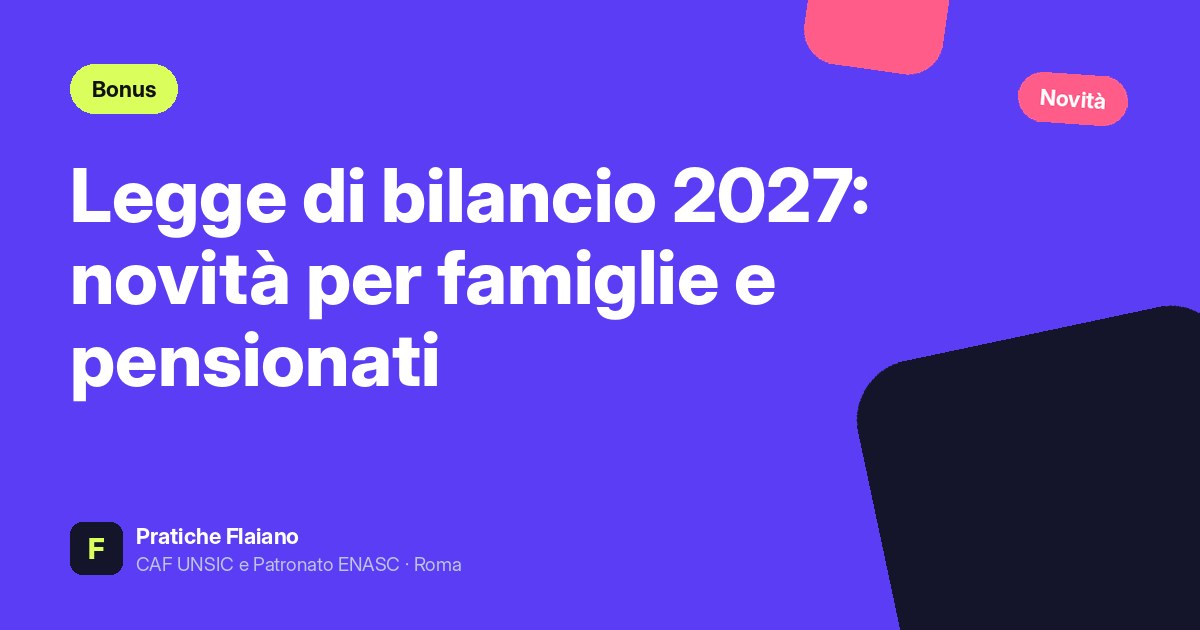
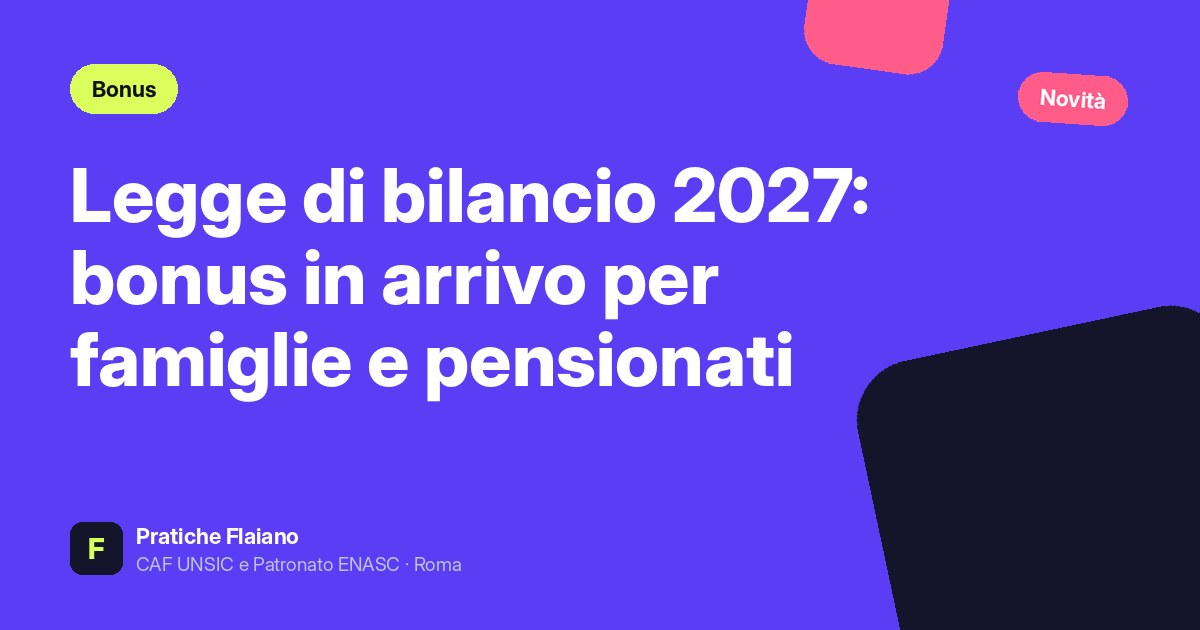
Legge di bilancio 2027: sezione bonus in arrivo (domanda sì/no e da quando)
Claude-Session: https://claude.ai/code/session_0196GTvN5mPCjeJurPh7tVQp

Changed region(s): [[0.0617, 0.3921, 0.6783, 0.6635]]

diff --git a/content/bonus-fiscali/2026-11-12-legge-di-bilancio-2027-novita-famiglie-pensionati.md b/content/bonus-fiscali/2026-11-12-legge-di-bilancio-2027-novita-famiglie-pensionati.md
@@ -1,12 +1,12 @@
 ---
-title: "Legge di bilancio 2027: le novità per famiglie, lavoratori e pensionati"
-seo_title: "Legge di bilancio 2027: novità per famiglie e pensionati"
+title: "Legge di bilancio 2027: bonus in arrivo e novità per famiglie, lavoratori e pensionati"
+seo_title: "Legge di bilancio 2027: bonus in arrivo per famiglie e pensionati"
 slug: "legge-di-bilancio-2027-novita-famiglie-pensionati"
 date: 2026-11-12
-last_updated: 2026-11-12
+last_updated: 2026-11-26
 category: "bonus-fiscali"
-tags: ["legge-di-bilancio-2027", "irpef", "bonus-mamme", "pensione", "congedo-parentale", "cedolare-secca"]
-meta_description: "Legge di bilancio 2027: IRPEF, bonus mamme 100 euro, congedo, Carta 300 euro over 75, pensioni e affitti. Le proposte spiegate dal CAF a Vigne Nuove, Roma."
+tags: ["legge-di-bilancio-2027", "bonus-2027", "irpef", "bonus-mamme", "pensione", "congedo-parentale", "cedolare-secca"]
+meta_description: "Bonus 2027 in arrivo: carta 300 euro over 75, bonus mamme 100 euro, nuovi nati, congedo. Serve la domanda? Da quando? Il CAF di Vigne Nuove, Roma."
 author: "Redazione Centro Pratiche Flaiano"
 sources:
   - "Disegno di legge di bilancio 2027, A.C. 3174, presentato alla Camera il 30 ottobre 2026 (ora A.C. 3174-bis dopo lo stralcio): artt. 5, 9, 51, 53, 54, 55, 57, 58, 59, 60 - https://www.camera.it/leg19/126?idDocumento=3174"
@@ -14,19 +14,22 @@ sources:
   - "D.Lgs. 26 marzo 2001, n. 151, art. 34, comma 1 (testo vigente) e Circolare INPS n. 95 del 26 maggio 2025 (tre mesi di congedo parentale all'80%)"
   - "D.Lgs. 15 marzo 2024, n. 29, artt. 34-36 e scheda INPS Prestazione universale - https://www.inps.it/it/it/dettaglio-scheda.it.schede-servizio-strumento.schede-servizi.decreto-anziani-prestazione-universale.html"
   - "Legge 30 dicembre 2025, n. 199, art. 1, comma 3 (aliquote IRPEF 2026)"
+  - "FiscoeTasse, Legge di bilancio 2027: le novità fiscali del DDL articolo per articolo (artt. 3, 4, 57-60) - https://www.fiscoetasse.com/normativa-prassi/13619-legge-di-bilancio-2027-le-novita-fiscali-del-ddl-articolo-per-articolo.html"
+  - "FiscoeTasse, Bonus 300 euro over 75: chi ha diritto e cosa si può pagare (art. 53, decreto entro 30 giorni) - https://www.fiscoetasse.com/domande-e-risposte/12895-bonus-300-euro-over-75-chi-ha-diritto-cosa-si-puo-pagare.html"
+  - "Informazione Fiscale, Manovra 2027: termine emendamenti 17 novembre 2026 - https://www.informazionefiscale.it/manovra-2027-novita-emendamenti-ultime-notizie"
 status: published
 type: novita
 image: "/og/legge-di-bilancio-2027-novita-famiglie-pensionati.jpg"
 image_alt: "Legge di bilancio 2027: novità per famiglie, lavoratori e pensionati"
 ---
 
-# Legge di bilancio 2027: le novità per famiglie, lavoratori e pensionati
+# Legge di bilancio 2027: bonus in arrivo e novità per famiglie, lavoratori e pensionati
 
-**Ultimo aggiornamento: 12 novembre 2026**
+**Ultimo aggiornamento: 26 novembre 2026**
 
-Il disegno di **legge di bilancio 2027** (A.C. 3174) è stato presentato alla Camera il **30 ottobre 2026** e ora è all'esame del Parlamento. Dal 4 novembre l'esame prosegue sul testo A.C. 3174-bis, nato dallo stralcio di alcune norme. Gli articoli citati qui sotto sono quelli del testo presentato. Deve essere approvato entro fine anno per entrare in vigore il **1° gennaio 2027**.
+Il disegno di **legge di bilancio 2027** (A.C. 3174) è stato presentato alla Camera il **30 ottobre 2026** e ora è all'esame del Parlamento. Dal 4 novembre l'esame prosegue sul testo A.C. 3174-bis, nato dallo stralcio di alcune norme. Gli articoli citati qui sotto sono quelli del testo presentato. Il termine per presentare gli emendamenti era il **17 novembre 2026**: ora il Parlamento li esamina. Deve essere approvato entro fine anno per entrare in vigore il **1° gennaio 2027**.
 
-In questa pagina raccogliamo le misure che interessano di più le famiglie, i lavoratori e i pensionati. **Sono tutte proposte**: il testo può cambiare. Aggiorneremo l'articolo dopo l'approvazione.
+In questa pagina raccogliamo i **bonus in arrivo** e le misure che interessano di più le famiglie, i lavoratori e i pensionati. **Sono tutte proposte**: il testo può cambiare. Per ognuna ti diciamo se servirà una domanda e da quando. Aggiorneremo l'articolo dopo l'approvazione.
 
 ## In breve
 
@@ -39,6 +42,25 @@ In questa pagina raccogliamo le misure che interessano di più le famiglie, i la
 | **Rivalutazione pensioni** | nuove fasce sull'intero importo | pensioni oltre 2.447,40 € lordi |
 | **APE sociale** | prorogata a tutto il 2027, a 63 anni e 6 mesi | disoccupati, caregiver, invalidi, gravosi |
 | **Cedolare secca** | 5% (1% under 36) sui nuovi contratti concordati 2027 | proprietari che affittano |
+
+## Bonus 2027 in arrivo: serve la domanda? Da quando?
+
+**Oggi nessuno di questi bonus si può chiedere**: prima la legge va approvata, poi servono i decreti o le istruzioni dell'INPS. Ecco cosa dice il testo per ognuno.
+
+| Bonus in arrivo | Quanto | Serve la domanda? | Da quando |
+|---|---|---|---|
+| **Carta sanitaria over 75** (art. 53) | 300 € una volta, nel 2027 | il testo non lo dice: lo deciderà un **decreto** del Ministero del Lavoro, da fare entro 30 giorni dall'entrata in vigore della legge | nel 2027, dopo il decreto |
+| **Bonus lavoratrici madri** (art. 57) | 100 € al mese, pagati ogni tre mesi | **sì**, all'INPS | dal 2027, quando l'INPS darà le istruzioni |
+| **Valore nuovi nati** (art. 58) | 100 € l'anno fino ai 18 anni | la posizione la apre l'INPS; i dettagli li fisserà un decreto entro 180 giorni | per i nati dal 1° gennaio 2027 |
+| **Congedo parentale all'80%** (art. 59) | da 4 a 6 mesi all'80%, secondo il numero dei figli | sì, la solita domanda di congedo | per chi finisce maternità o paternità dopo il 31/12/2026 |
+| **Voucher per genitori autonomi** (art. 60) | fino a 500 € al mese per 3 mesi | sì, al posto del congedo parentale, nei limiti dei fondi | dal 2027 |
+| **Prestazione universale anziani** (art. 53) | proroga al 2027, soglia ISEE sociosanitario a 12.000 € | sì, all'INPS, come oggi | nel 2027 |
+| **Contributo auto per famiglie numerose** (art. 3) | fino a 385,71 € | modalità da definire | dal 2027 |
+| **Bonus elettrodomestici** (art. 4) | fondo rifinanziato con 50 milioni per il 2027 | le regole 2027 non ci sono ancora | da definire |
+
+Il **contributo auto per famiglie numerose** riguarda i nuclei con **più di tre figli**, di cui almeno uno minorenne, che hanno un'auto da **sei a nove posti** fino a **133 kW**.
+
+Il **bollo auto 2027** invece è **già legge**: niente bollo su un solo veicolo a benzina o gasolio fino a 80 kW (legge 209/2026). Il disegno di legge di bilancio lo renderebbe stabile anche per gli anni dopo. Trovi tutto in [Bollo auto 2027 gratis fino a 80 kW](/blog/bollo-auto-2027-esenzione-80-kw-legge-209-2026).
 
 ## IRPEF 2027 nella legge di bilancio
 
@@ -71,7 +93,7 @@ Per le partite IVA nel **regime forfettario** la soglia dei ricavi sale a **100.
 - ha compiuto **75 anni entro il 31 dicembre 2026**;
 - ha pensioni (anche sociali o di invalidità civile) che nel **2025** non superano in tutto **28.000 euro**.
 
-Non è tassata e non conta per l'ISEE. Le modalità, compresi i negozi e le strutture dove usarla, saranno fissate da un decreto.
+Non è tassata e non conta per l'ISEE. Per averla l'ISEE non serve: conta solo l'importo delle pensioni. Le modalità, compresi i negozi e le strutture dove usarla e se servirà una domanda, saranno fissate da un decreto del Ministero del Lavoro, da adottare entro 30 giorni dall'entrata in vigore della legge. In pratica le istruzioni arriveranno **non prima di gennaio-febbraio 2027**.
 
 **Prestazione universale per anziani non autosufficienti (art. 53).** Oggi è sperimentale fino al 31 dicembre 2026 ed è riservata a chi ha almeno 80 anni, un bisogno assistenziale gravissimo, l'indennità di accompagnamento e un ISEE sociosanitario fino a **6.000 euro**. Il testo la proroga al **31 dicembre 2027** e per il 2027 alza la soglia ISEE a **12.000 euro**.
 
@@ -112,6 +134,12 @@ Se il totale delle tue pensioni nel 2025 non ha superato 28.000 euro, il testo a
 **Devo fare domanda per la carta o per il bonus?**
 Il bonus lavoratrici madri è a domanda. Per la carta le modalità le stabilirà un decreto. Ti avviseremo quando sarà possibile.
 
+**Quando si potrà chiedere la carta da 300 euro per gli over 75?**
+Non ancora. Prima la legge va approvata entro il 31 dicembre 2026, poi il decreto (entro 30 giorni) dirà se la carta arriva in automatico dall'INPS o se serve una domanda. Ti avviseremo appena esce.
+
+**Quali bonus 2027 sono già legge?**
+L'esenzione dal bollo auto 2027 per un solo veicolo fino a 80 kW (legge 209/2026). Le altre misure di questa pagina sono ancora proposte.
+
 **Cambia qualcosa per l'Assegno Unico con la legge di bilancio 2027?**
 Il bonus madri, i voucher per autonomi e la carta non contano per l'ISEE. Per il rinnovo dell'[Assegno Unico](/assegno-unico) vale come sempre l'ISEE 2027.
 
@@ -120,6 +148,8 @@ Il bonus madri, i voucher per autonomi e la carta non contano per l'ISEE. Per il
 - [Rivalutazione pensioni 2027: aumento da gennaio e nuove fasce](/blog/rivalutazione-pensioni-2027-aumento-gennaio-fasce)
 - [Assegno Unico 2027: rinnovo ISEE e scadenze](/blog/assegno-unico-2027-rinnovo-isee-scadenze)
 - [ISEE 2027: documenti e quando rinnovarlo a Roma](/blog/isee-2027-documenti-quando-rinnovare-roma)
+- [Bollo auto 2027 gratis fino a 80 kW](/blog/bollo-auto-2027-esenzione-80-kw-legge-209-2026)
+- [Congedo parentale: mesi all'80% e domanda](/blog/congedo-parentale-guida-mesi-80-per-cento-domanda)
 
 ---
 
